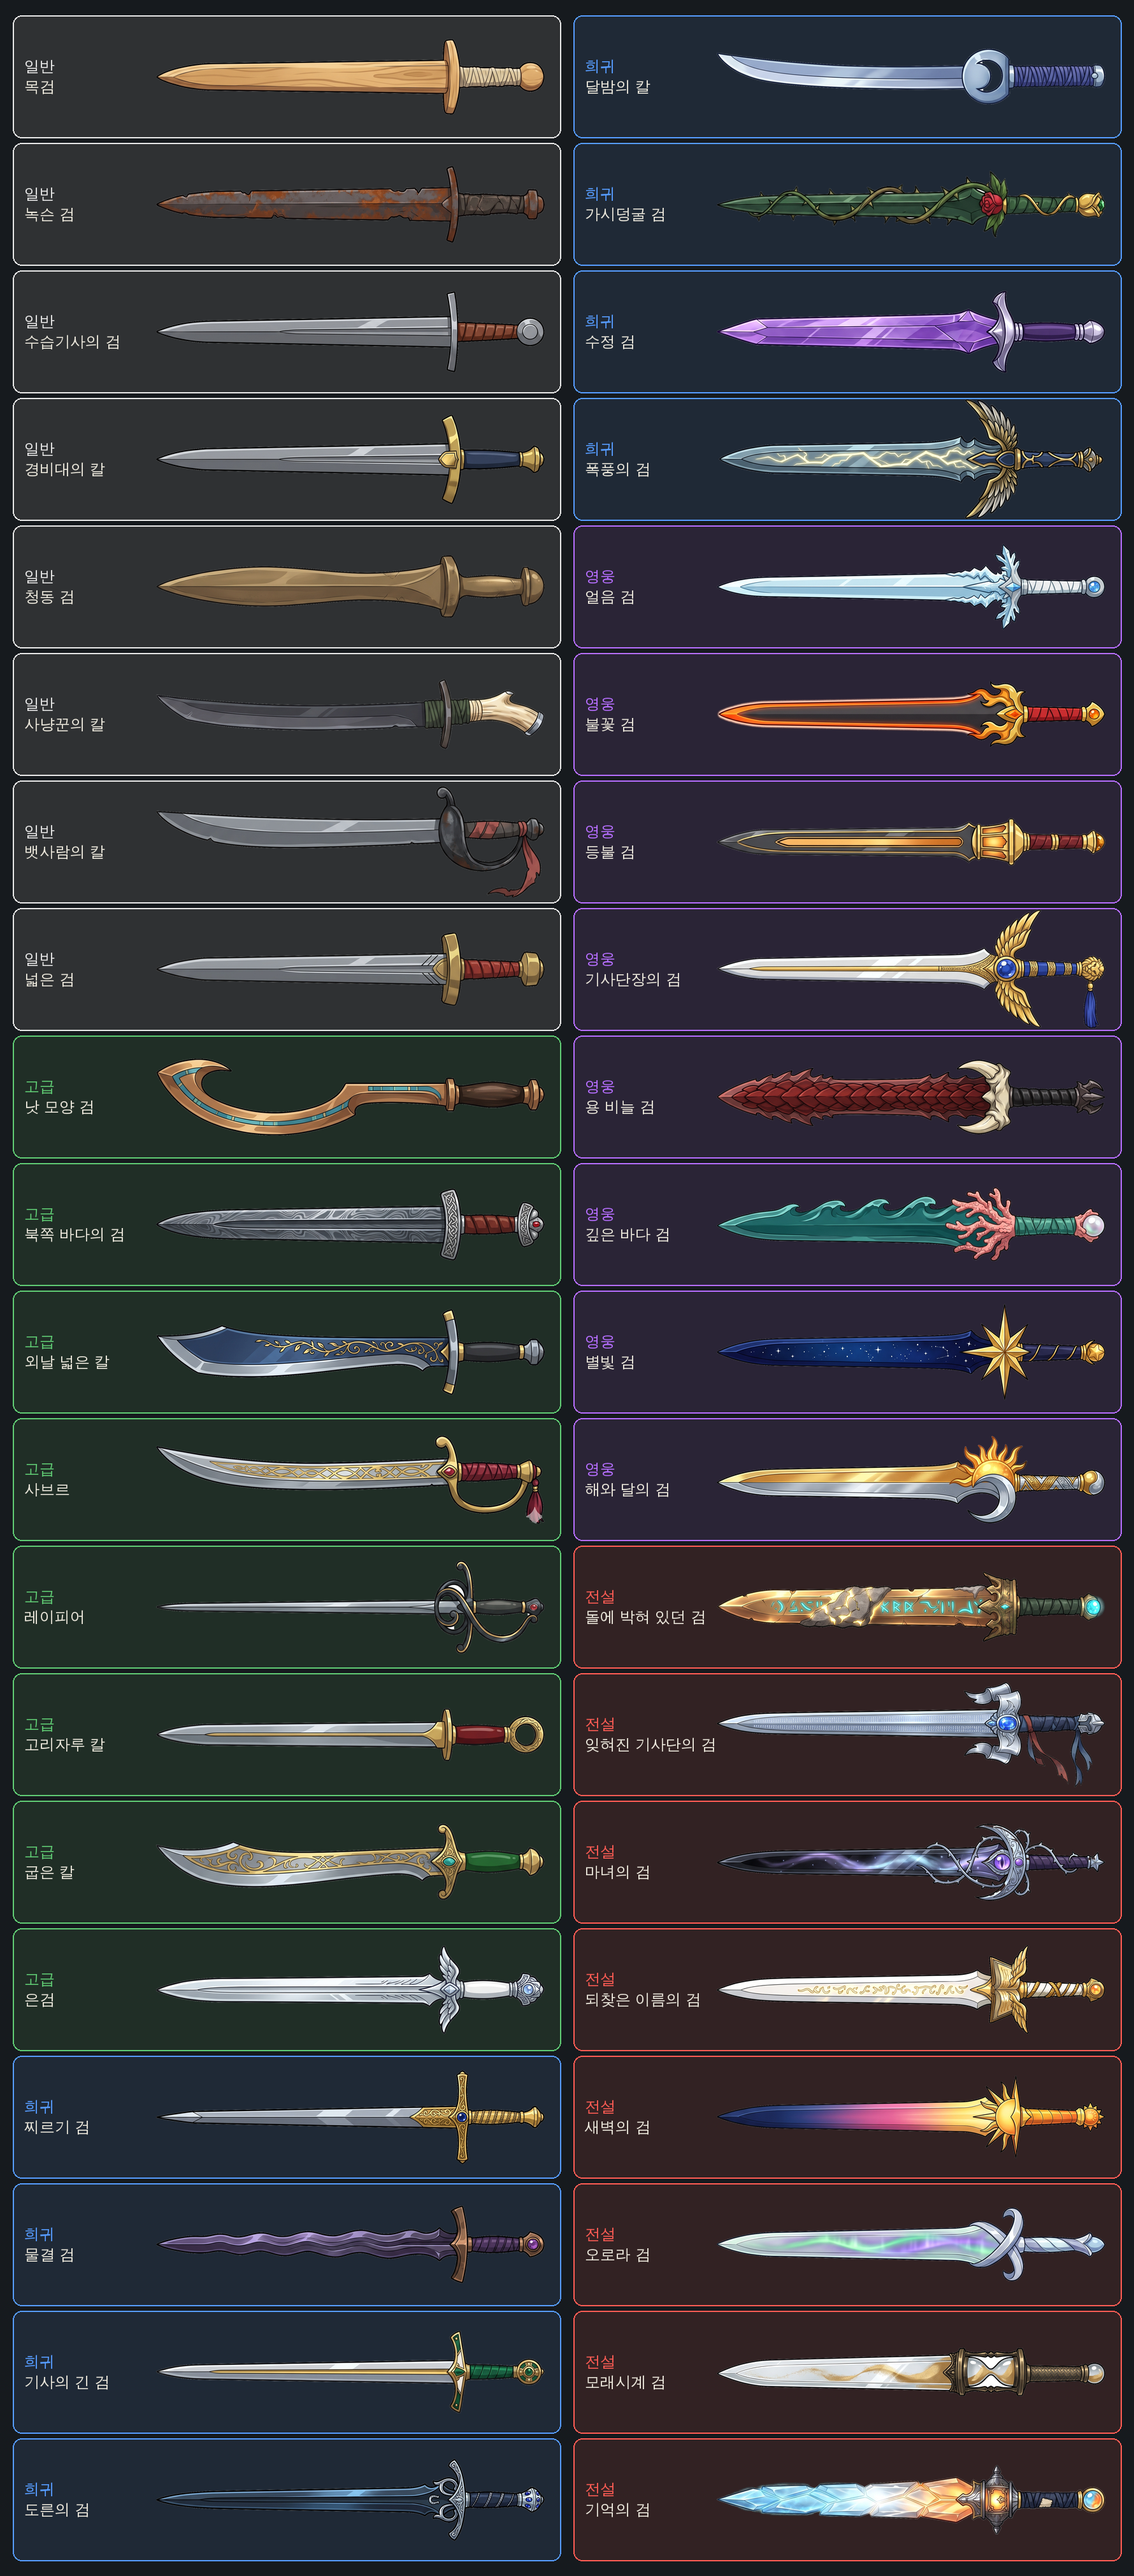
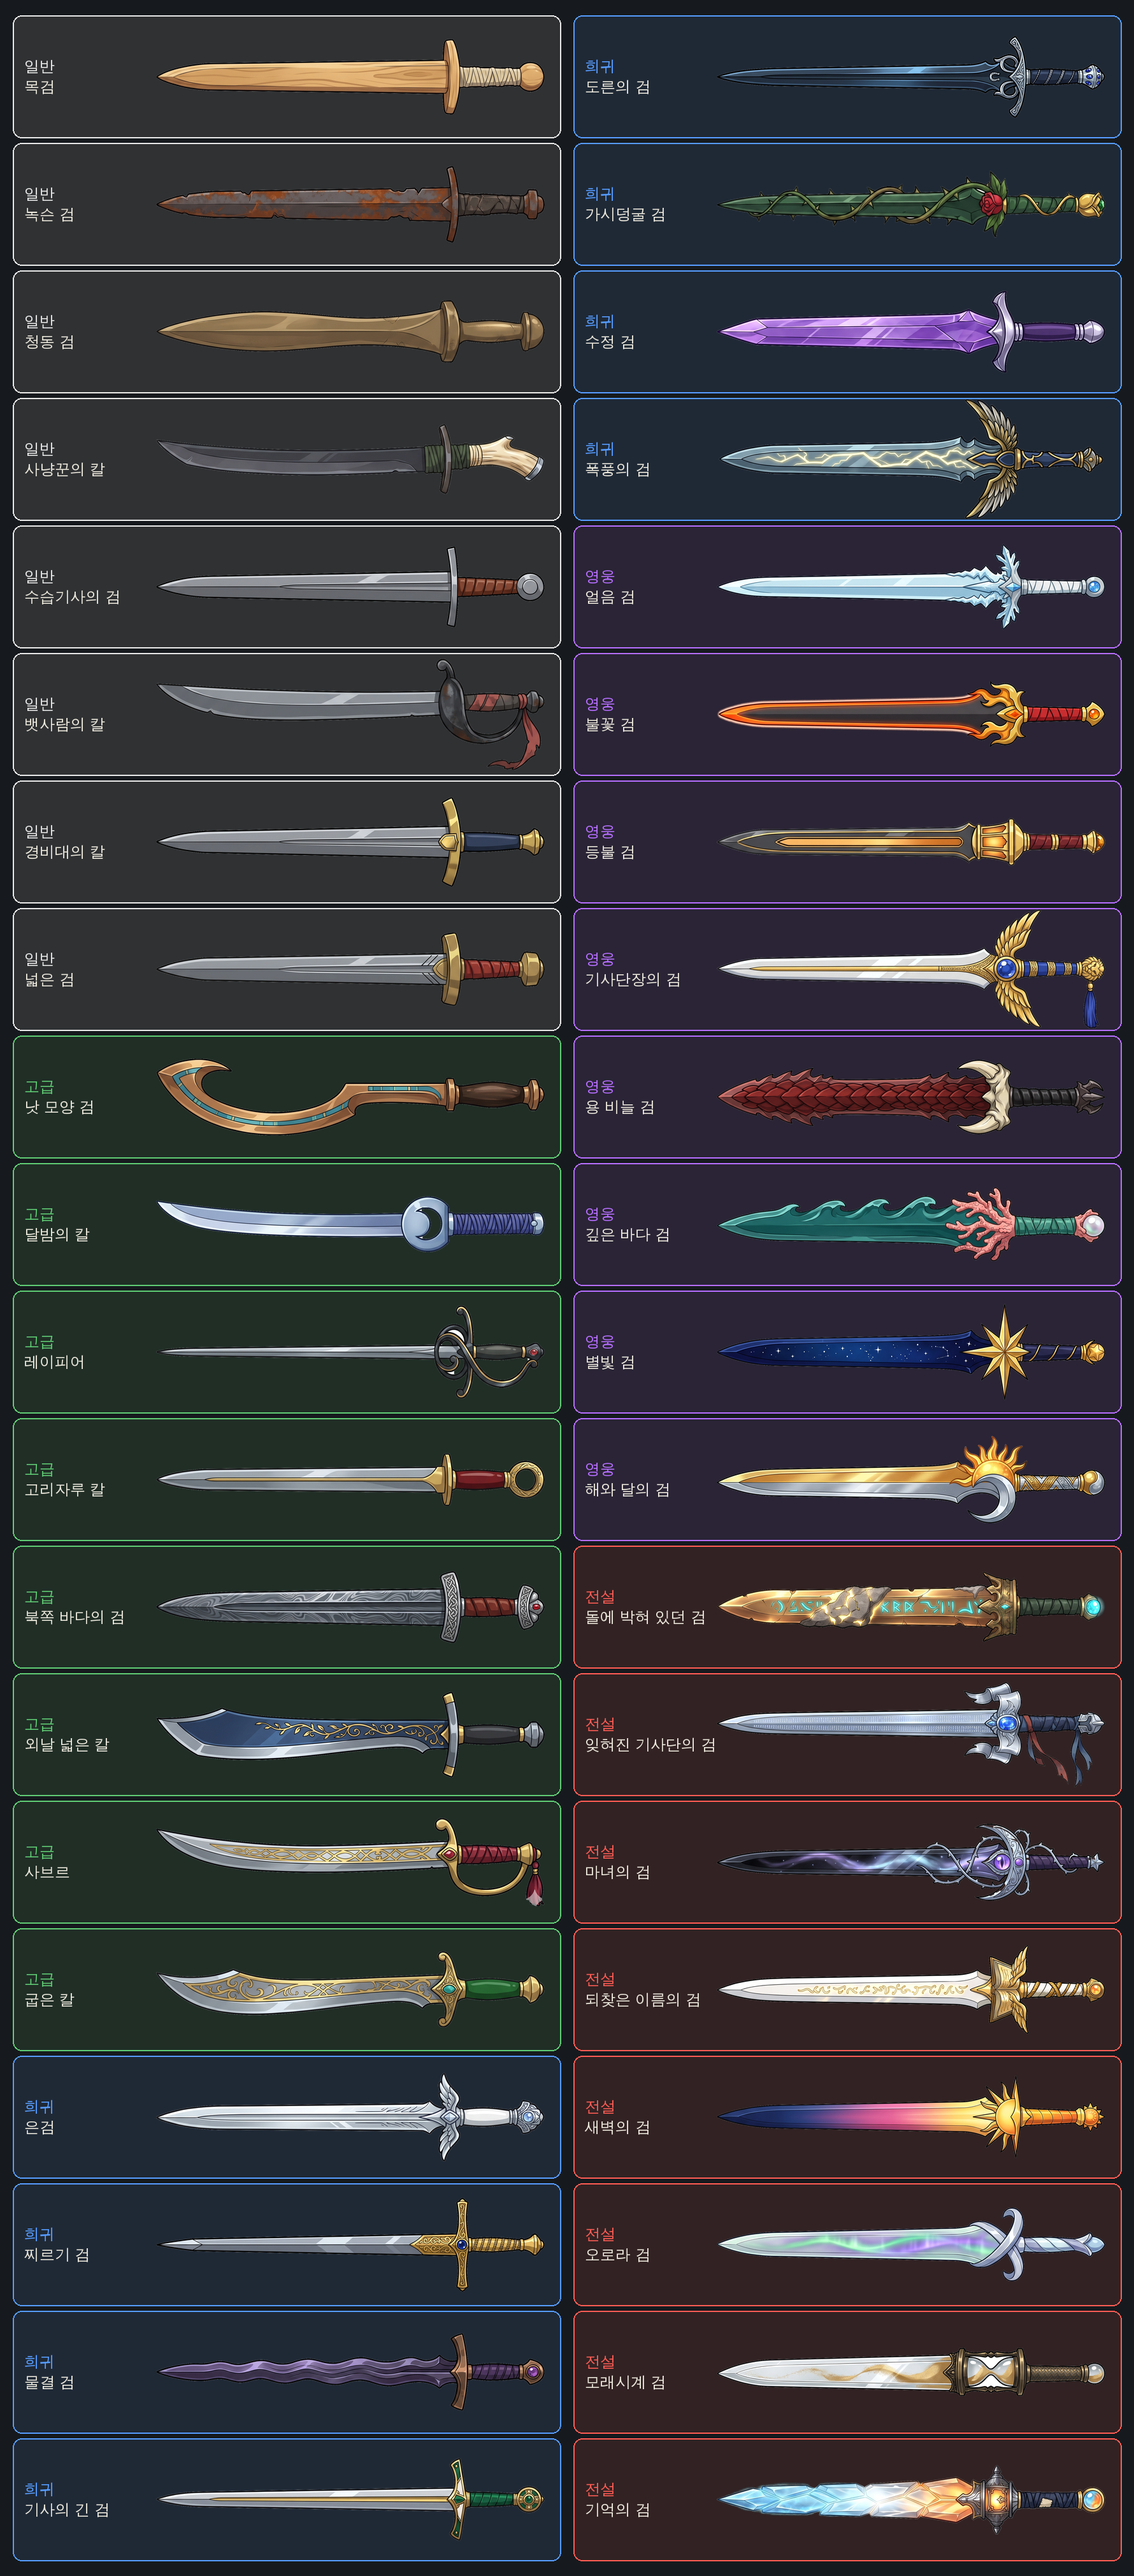
무기 순서 바꾸기: 청동 검·사냥꾼의 칼 앞으로, 달밤의 칼은 고급, 은검은 희귀
Claude-Session: https://claude.ai/code/session_019ctizXkAJK8e2QXDcDEkS2

Changed region(s): [[0.1236, 0.4366, 0.4944, 0.998], [0.1236, 0.0936, 0.4944, 0.3431], [0.6489, 0.0, 0.9579, 0.0624]]

diff --git a/잊혀진 기사 키우기 세계관/무기 도감.md b/잊혀진 기사 키우기 세계관/무기 도감.md
@@ -5,7 +5,7 @@
 | 등급 | 색 | 무기 |
 |---|---|---|
 | 일반 | 흰색 | 1~8 · 연습용 검과 오래된 실제 무기 |
-| 고급 | 초록 | 9~16 · 옛 시대와 먼 바다의 실제 무기 |
+| 고급 | 초록 | 9~16 · 옛 시대와 먼 바다의 실제 무기, 솜씨 좋은 대장장이의 칼 |
 | 희귀 | 파랑 | 17~24 · 기사의 무기와 이름난 대장장이의 검, 힘이 깃든 검 |
 | 영웅 | 보라 | 25~32 · 얼음, 불꽃, 용, 바다, 별의 검 |
 | 전설 | 빨강 | 33~40 · 이야기의 끝과 이어진 검. 맨 위는 기억의 검 |
@@ -17,25 +17,25 @@
 |---|---|---|---|---|
 | 1 | 일반 | 목검 | 나무를 깎아 만든 연습용 검 | 수습기사 시절 |
 | 2 | 일반 | 녹슨 검 | 이가 빠지고 녹슨 쇠 검 | 1구역 고블린 |
-| 3 | 일반 | 수습기사의 검 | 꾸밈 없는 회색 쇠 검 | 루가 들고 떠난 검 |
-| 4 | 일반 | 경비대의 칼 | 놋쇠 손잡이 막이에 방패 표시가 있는 튼튼한 칼 | 2화 하린 |
-| 5 | 일반 | 청동 검 | 가운데가 볼록한 나뭇잎 모양의 누런 청동 날 | 청동기 시대의 잎 모양 검 |
-| 6 | 일반 | 사냥꾼의 칼 | 검은 쇠 외날이 살짝 굽은 칼, 뽀얀 뿔 손잡이와 초록 끈 | 1구역 숲 |
-| 7 | 일반 | 뱃사람의 칼 | 짧고 넓게 굽은 날, 손을 덮는 둥근 쇠 막이 | 커틀러스 · 7구역 항구 |
+| 3 | 일반 | 청동 검 | 가운데가 볼록한 나뭇잎 모양의 누런 청동 날 | 청동기 시대의 잎 모양 검 |
+| 4 | 일반 | 사냥꾼의 칼 | 검은 쇠 외날이 살짝 굽은 칼, 뽀얀 뿔 손잡이와 초록 끈 | 1구역 숲 |
+| 5 | 일반 | 수습기사의 검 | 꾸밈 없는 회색 쇠 검 | 루가 들고 떠난 검 |
+| 6 | 일반 | 뱃사람의 칼 | 짧고 넓게 굽은 날, 손을 덮는 둥근 쇠 막이 | 커틀러스 · 7구역 항구 |
+| 7 | 일반 | 경비대의 칼 | 놋쇠 손잡이 막이에 방패 표시가 있는 튼튼한 칼 | 2화 하린 |
 | 8 | 일반 | 넓은 검 | 날이 넓고 가운데 홈이 팬 양날 검 |  |
 | 9 | 고급 | 낫 모양 검 | 날 앞쪽 절반이 낫처럼 크게 휜 청동 검 | 고대의 휜 검(코페시) |
-| 10 | 고급 | 북쪽 바다의 검 | 넓은 날에 깊은 홈, 짧은 막이, 세 갈래로 볼록한 손잡이 끝 | 바이킹 검 · 8구역 섬 |
-| 11 | 고급 | 외날 넓은 칼 | 끝으로 갈수록 넓어지는 묵직한 외날, 곧은 십자 막이 | 팔시온 |
-| 12 | 고급 | 사브르 | 부드럽게 굽은 날, 손등을 감싸는 놋쇠 막이 | 항구 기사단 |
-| 13 | 고급 | 레이피어 | 가늘고 긴 찌르기 검, 둥글게 감싼 손잡이 막이 | 옛 왕도 |
-| 14 | 고급 | 고리자루 칼 | 곧은 외날, 손잡이 끝에 둥근 고리 | 환두대도 |
-| 15 | 고급 | 굽은 칼 | 끝으로 갈수록 넓어지는 굽은 날, 금 무늬 | 먼 나라 상인 |
-| 16 | 고급 | 은검 | 가는 무늬를 새긴 밝은 은빛 날 | 4구역 은광 |
-| 17 | 희귀 | 찌르기 검 | 날 없이 송곳처럼 뾰족하고 긴 검 | 에스터크(갑옷 틈을 찌르는 검) |
-| 18 | 희귀 | 물결 검 | 날이 물결처럼 구불구불한 검 |  |
-| 19 | 희귀 | 기사의 긴 검 | 길고 곧은 양날에 금빛 줄, 초록 칠보 십자 막이와 초록 손잡이 | 롱소드 |
-| 20 | 희귀 | 도른의 검 | 흠 없는 검푸른 날, 편자 모양의 대장간 표시 | 4화 할아버지 도른 |
-| 21 | 희귀 | 달밤의 칼 | 살짝 굽은 외날, 초승달이 뚫린 둥근 막이 | 8구역 섬 |
+| 10 | 고급 | 달밤의 칼 | 살짝 굽은 외날, 초승달이 뚫린 둥근 막이 | 8구역 섬 |
+| 11 | 고급 | 레이피어 | 가늘고 긴 찌르기 검, 둥글게 감싼 손잡이 막이 | 옛 왕도 |
+| 12 | 고급 | 고리자루 칼 | 곧은 외날, 손잡이 끝에 둥근 고리 | 환두대도 |
+| 13 | 고급 | 북쪽 바다의 검 | 넓은 날에 깊은 홈, 짧은 막이, 세 갈래로 볼록한 손잡이 끝 | 바이킹 검 · 8구역 섬 |
+| 14 | 고급 | 외날 넓은 칼 | 끝으로 갈수록 넓어지는 묵직한 외날, 곧은 십자 막이 | 팔시온 |
+| 15 | 고급 | 사브르 | 부드럽게 굽은 날, 손등을 감싸는 놋쇠 막이 | 항구 기사단 |
+| 16 | 고급 | 굽은 칼 | 끝으로 갈수록 넓어지는 굽은 날, 금 무늬 | 먼 나라 상인 |
+| 17 | 희귀 | 은검 | 가는 무늬를 새긴 밝은 은빛 날 | 4구역 은광 |
+| 18 | 희귀 | 찌르기 검 | 날 없이 송곳처럼 뾰족하고 긴 검 | 에스터크(갑옷 틈을 찌르는 검) |
+| 19 | 희귀 | 물결 검 | 날이 물결처럼 구불구불한 검 |  |
+| 20 | 희귀 | 기사의 긴 검 | 길고 곧은 양날에 금빛 줄, 초록 칠보 십자 막이와 초록 손잡이 | 롱소드 |
+| 21 | 희귀 | 도른의 검 | 흠 없는 검푸른 날, 편자 모양의 대장간 표시 | 4화 할아버지 도른 |
 | 22 | 희귀 | 가시덩굴 검 | 덩굴이 감긴 짙은 초록 날, 붉은 장미, 금 덩굴을 감은 초록 손잡이와 금빛 장미 봉오리 | 6구역 달빛 숲 |
 | 23 | 희귀 | 수정 검 | 속이 비치는 보랏빛 수정 날 |  |
 | 24 | 희귀 | 폭풍의 검 | 번개 모양 무늬가 옅게 빛나는 날 | 5구역 바람고개 |
@@ -58,7 +58,7 @@
 
 - 그림은 한 장에 네 자루씩 열 장을 뽑았다(`art/무기/원본/01~10.png`). `tools/무기모두자르기.py`가 한 자루씩 잘라 `art/무기/<이름>.png`로 저장한다. 주문 문구는 `그림 주문-무기.md`에 있다.
 - 한눈에 보기: `tools/무기도감판.py`(등급 색 칸), `tools/무기쥐여보기.py`(기사 손에 쥔 모습). 둘 다 이 표의 순서를 읽는다.
-- 11-15: 9번 그림(33~36)은 처음 것이 전설치고 수수해서 다시 뽑았다(처음 것은 `art/무기/원본/09-처음.png`). 여섯 자루(사냥꾼의 칼, 가시덩굴 검, 등불 검, 기사의 긴 검, 기사단장의 검, 기억의 검)는 한 자루씩 고쳐 바꿔 끼웠다(`원본/11.png`, `12.png`, 문구는 `그림 주문-무기 고치기.md`). 순서 바꾸기는 제안만 해 두었고 아직 정하지 않았다.
+- 11-15: 9번 그림(33~36)은 처음 것이 전설치고 수수해서 다시 뽑았다(처음 것은 `art/무기/원본/09-처음.png`). 여섯 자루(사냥꾼의 칼, 가시덩굴 검, 등불 검, 기사의 긴 검, 기사단장의 검, 기억의 검)는 한 자루씩 고쳐 바꿔 끼웠다(`원본/11.png`, `12.png`, 문구는 `그림 주문-무기 고치기.md`). 순서를 바꿨다: 청동 검과 사냥꾼의 칼을 일반 3·4번째로, 달밤의 칼은 고급으로, 은검은 희귀로.
 - 손에 든 길이는 모든 무기가 같다. 아이템 그림의 길이와는 상관없다.
 - 등급은 신화(노랑)에서 끝난다. 신화를 더한 뒤에는 등급을 늘리지 않고, 같은 등급 안에 모양만 다른 무기를 더한다.
 - 다음 등급이 열리는 조건: 지금 등급 8종을 모두 모으고 8종 모두 정해진 강화 레벨까지. 정해진 횟수마다 아직 없는 무기가 반드시 나온다.
